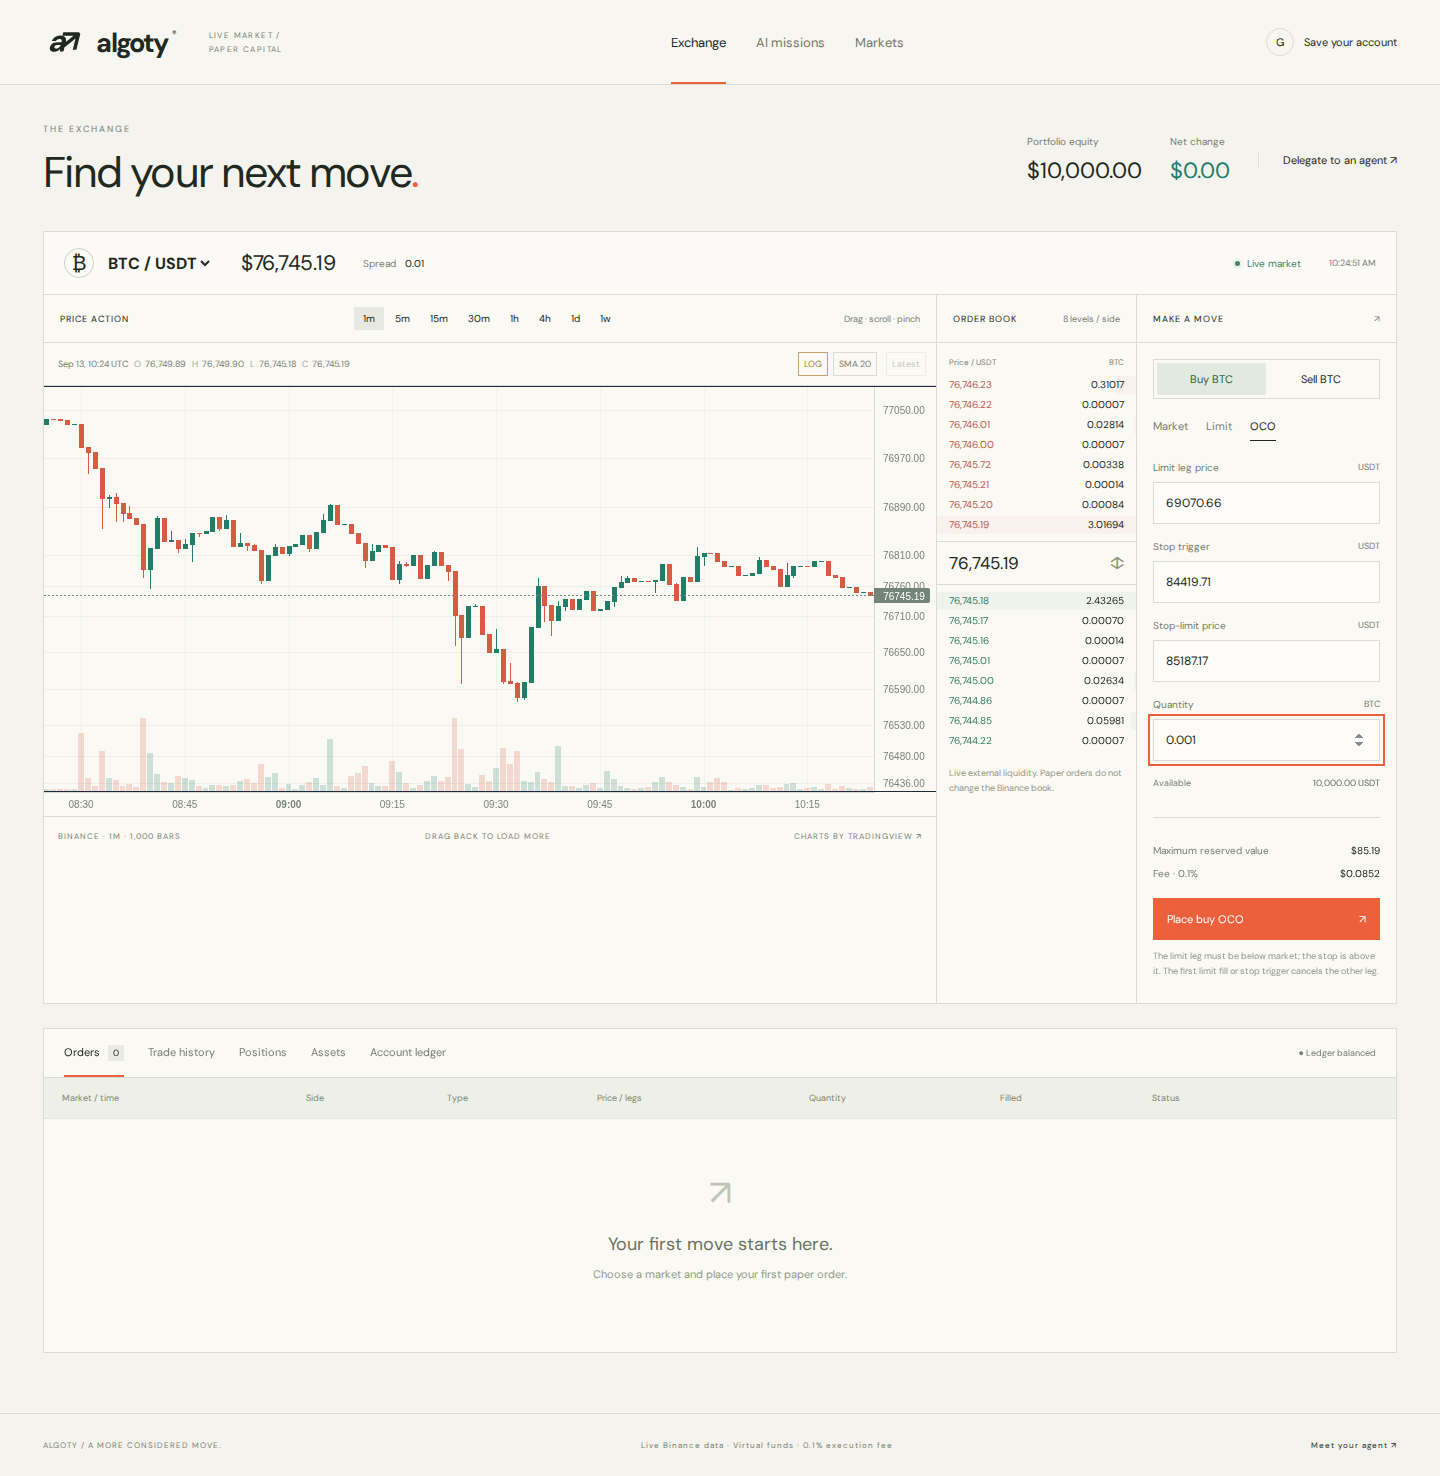
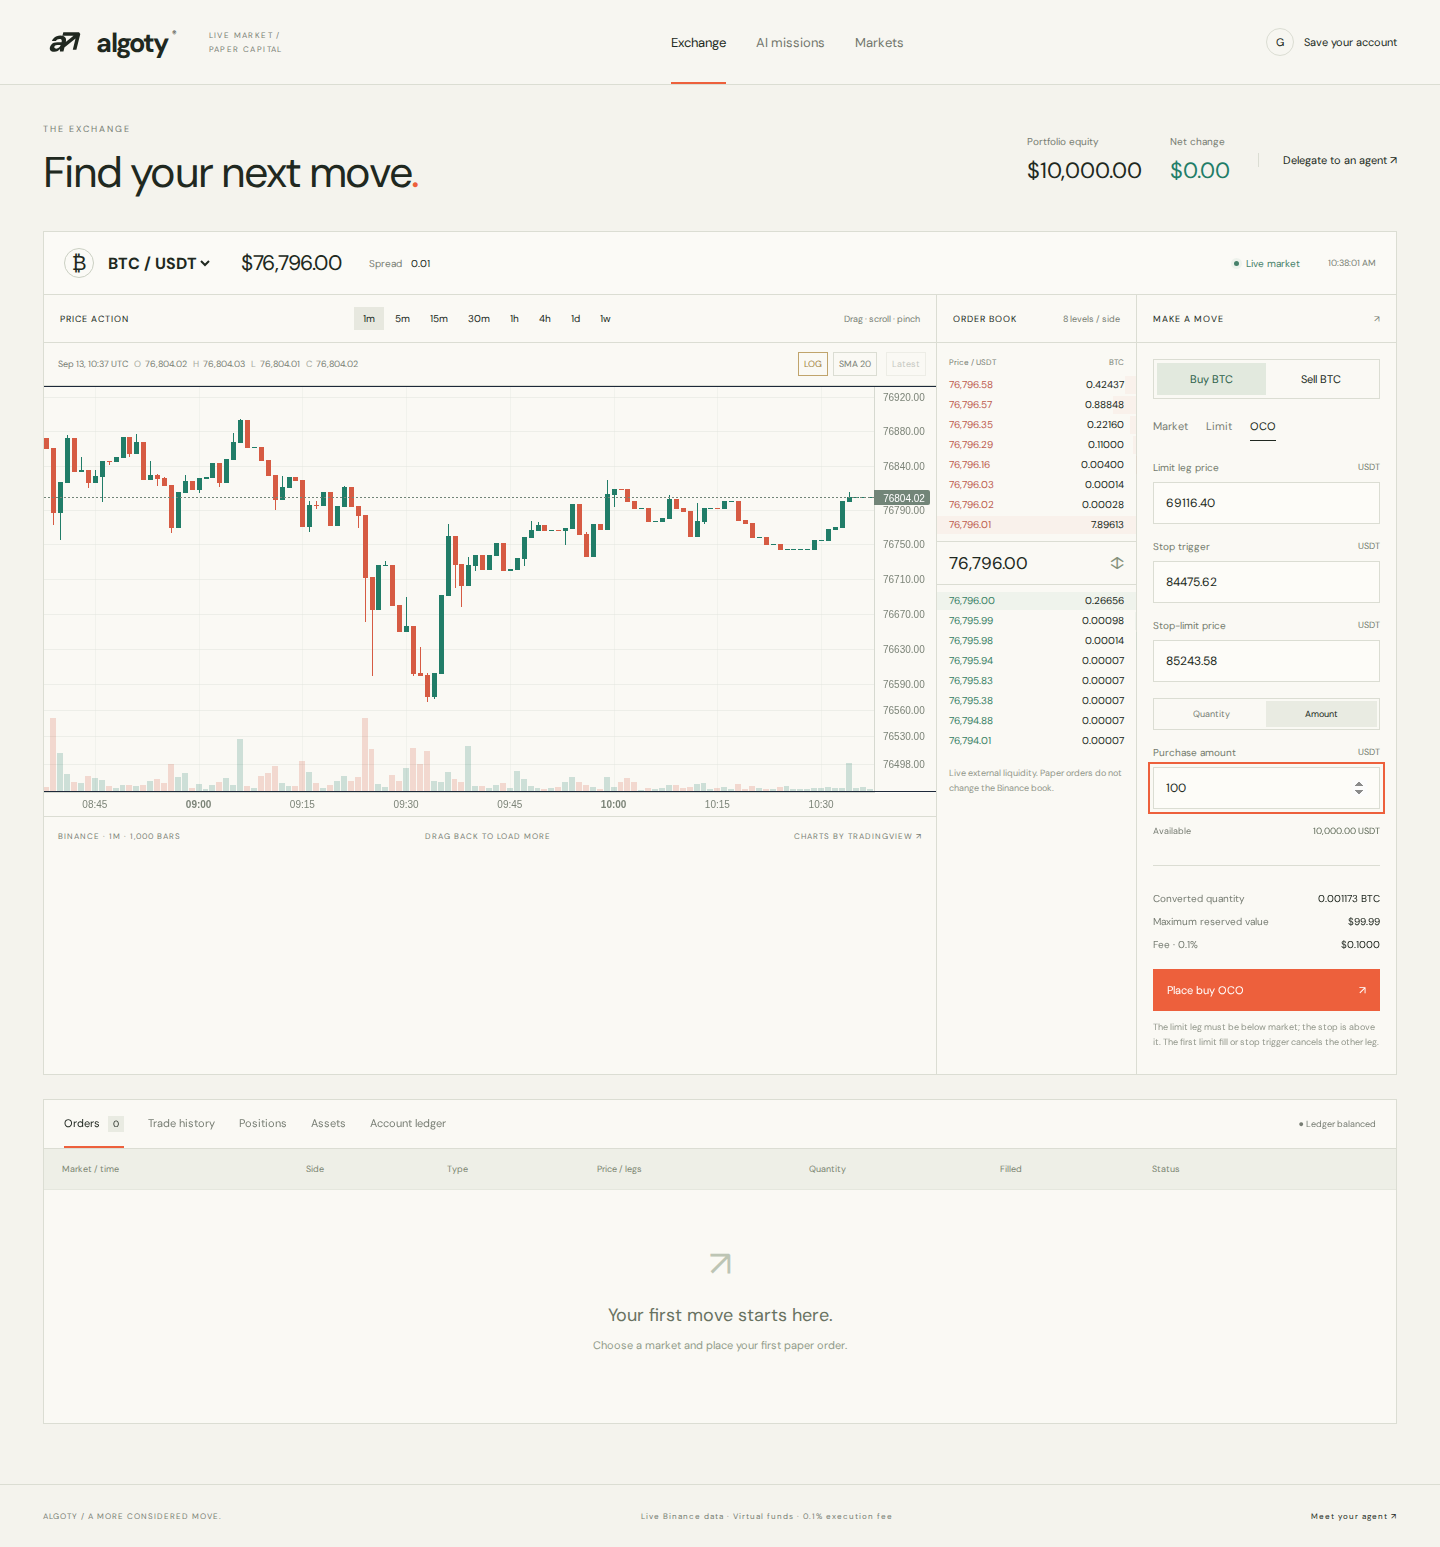
exchange: support USDT amount sizing

diff --git a/apps/web/app/(product)/trade/page.js b/apps/web/app/(product)/trade/page.js
@@ -40,6 +40,8 @@ export default function Trade() {
       "",
     ),
     [quantity, setQuantity] = useViewState("trade.quantity", "0.001"),
+    [savedSizeMode, setSizeMode] = useViewState("trade.size-mode", "QUANTITY"),
+    [amount, setAmount] = useViewState("trade.amount", "100"),
     [savedTab, setTab] = useViewState("trade.portfolio-tab", "orders"),
     [notice, setNotice] = useState(""),
     [busy, setBusy] = useState(false),
@@ -50,6 +52,9 @@ export default function Trade() {
   const kind = ["MARKET", "LIMIT", "OCO"].includes(savedKind)
     ? savedKind
     : "MARKET";
+  const sizeMode = ["QUANTITY", "AMOUNT"].includes(savedSizeMode)
+    ? savedSizeMode
+    : "QUANTITY";
   const logarithmicScale = savedChartScale !== "linear";
   const tab = portfolioTabs.includes(savedTab) ? savedTab : "orders";
   const queryClient = useQueryClient();
@@ -77,7 +82,17 @@ export default function Trade() {
   }
   useEffect(() => {
     key.current = null;
-  }, [symbol, side, kind, price, stopPrice, stopLimitPrice, quantity]);
+  }, [
+    symbol,
+    side,
+    kind,
+    price,
+    stopPrice,
+    stopLimitPrice,
+    quantity,
+    amount,
+    sizeMode,
+  ]);
   const asset = symbol.replace("USDT", ""),
     best =
       (side === "BUY" ? market?.asks?.[0]?.price : market?.bids?.[0]?.price) ||
@@ -89,7 +104,14 @@ export default function Trade() {
       : kind === "OCO" && side === "BUY"
         ? Math.max(Number(price || 0), Number(stopLimitPrice || 0))
         : Number(price || 0);
-  const estimate = Number(quantity || 0) * estimatePrice;
+  const quantityUnits =
+    sizeMode === "AMOUNT"
+      ? estimatePrice > 0
+        ? Math.floor((Number(amount || 0) / estimatePrice) * 1e6)
+        : 0
+      : Math.round(Number(quantity || 0) * 1e6);
+  const orderQuantity = quantityUnits / 1e6;
+  const estimate = orderQuantity * estimatePrice;
   const available = portfolio?.balances?.find(
     (b) => b.asset === (side === "BUY" ? "USDT" : asset),
   );
@@ -102,7 +124,7 @@ export default function Trade() {
         symbol,
         side,
         kind,
-        quantity: Math.round(Number(quantity) * 1e6),
+        quantity: quantityUnits,
         price: Math.round(Number(price || 0) * 100),
         ...(kind === "OCO"
           ? {
@@ -378,19 +400,60 @@ export default function Trade() {
                 </label>
               </>
             )}
-            <label>
-              Quantity <span>{asset}</span>
-              <input
-                aria-label="Order quantity"
-                type="number"
-                min="0.000001"
-                step="0.000001"
-                max="1000"
-                value={quantity}
-                onChange={(e) => setQuantity(e.target.value)}
-                required
-              />
-            </label>
+            <div className="size-entry">
+              <div
+                className="size-mode"
+                role="group"
+                aria-label="Order size input"
+              >
+                <button
+                  type="button"
+                  className={sizeMode === "QUANTITY" ? "active" : ""}
+                  aria-pressed={sizeMode === "QUANTITY"}
+                  onClick={() => setSizeMode("QUANTITY")}
+                >
+                  Quantity
+                </button>
+                <button
+                  type="button"
+                  className={sizeMode === "AMOUNT" ? "active" : ""}
+                  aria-pressed={sizeMode === "AMOUNT"}
+                  onClick={() => setSizeMode("AMOUNT")}
+                >
+                  Amount
+                </button>
+              </div>
+              {sizeMode === "QUANTITY" ? (
+                <label>
+                  Order quantity <span>{asset}</span>
+                  <input
+                    aria-label="Order quantity"
+                    type="number"
+                    min="0.000001"
+                    step="0.000001"
+                    max="1000"
+                    value={quantity}
+                    onChange={(e) => setQuantity(e.target.value)}
+                    required
+                  />
+                </label>
+              ) : (
+                <label>
+                  {side === "BUY" ? "Purchase amount" : "Order value"}{" "}
+                  <span>USDT</span>
+                  <input
+                    aria-label="Order amount"
+                    type="number"
+                    min="0.01"
+                    step="0.01"
+                    max="10000000"
+                    value={amount}
+                    onChange={(e) => setAmount(e.target.value)}
+                    required
+                  />
+                </label>
+              )}
+            </div>
             <div className="available">
               Available{" "}
               <b>
@@ -405,6 +468,14 @@ export default function Trade() {
               </b>
             </div>
             <div className="ticket-estimate">
+              {sizeMode === "AMOUNT" && (
+                <span>
+                  Converted quantity
+                  <b>
+                    {fmt(orderQuantity, 6)} {asset}
+                  </b>
+                </span>
+              )}
               <span>
                 {kind === "OCO" && side === "BUY"
                   ? "Maximum reserved value"
@@ -417,7 +488,9 @@ export default function Trade() {
             </div>
             <button
               className={"primary place " + (side === "SELL" ? "sell" : "")}
-              disabled={busy || !user || !market || market.stale}
+              disabled={
+                busy || !user || !market || market.stale || quantityUnits < 1
+              }
             >
               {busy
                 ? "Placing…"

diff --git a/apps/web/app/product.css b/apps/web/app/product.css
@@ -489,6 +489,25 @@
   color: var(--ink);
   border-color: var(--ink);
 }
+.size-mode {
+  display: flex;
+  border: 1px solid var(--line);
+  padding: 2px;
+  margin-bottom: 12px;
+}
+.size-mode button {
+  flex: 1;
+  padding: 7px 4px;
+  color: var(--muted);
+  font-size: 9px;
+}
+.size-mode button.active {
+  color: var(--ink);
+  background: #e9ebe2;
+}
+.size-entry > label {
+  margin-bottom: 16px;
+}
 .product form label,
 .plan-fields label {
   display: block;

diff --git a/docs/v2/RUNBOOK.md b/docs/v2/RUNBOOK.md
@@ -86,4 +86,4 @@ Art direction: warm ivory, charcoal, restrained orange and muted market colors. 
 
 Routes: `/`, `/markets`, `/trade`, `/agents`, `/account`, `/shared/:token`. The four private product routes share one persistent route-group layout and TanStack Query client. User data is keyed by user id, retained in memory for background refreshes and explicitly invalidated after mutations; changing accounts drops the previous user's queries. Live SSE snapshots use the same cache while streams remain live. Market/timeframe/tab/draft choices use the route-group view store and browser-session storage. None of these responses are written to the service-worker cache.
 
-The exchange has zoomable candles, switchable logarithmic/linear price scales, optional SMA, depth-price selection, execution detail, positions, assets and ledger. The selected price scale persists with the other browser-session chart controls. Mobile layouts preserve the order ticket and book. Missions have editable plans, an evidence journal, natural-language control previews and read-only comparison publishing.
+The exchange has zoomable candles, switchable logarithmic/linear price scales, optional SMA, depth-price selection, execution detail, positions, assets and ledger. The order ticket accepts either base-asset quantity or a USDT amount; amount mode converts at the market price, limit price, or worst-case BUY OCO reservation price and shows the resulting quantity before submission. The selected price scale and sizing mode persist with the other browser-session controls. Mobile layouts preserve the order ticket and book. Missions have editable plans, an evidence journal, natural-language control previews and read-only comparison publishing.

diff --git a/README.md b/README.md
@@ -11,6 +11,7 @@ A live-data paper exchange with a Go execution engine, Java financial core and A
 - Streams real Binance spot depth and trades, and opens each chart with up to 1,000 cached Binance candles for 1m, 5m, 15m, 30m, 1h, 4h, 1d and 1w. Dragging into the past loads and merges older pages on demand.
 - Renders interactive volume, crosshair, SMA and switchable logarithmic/linear price scales.
 - Executes market, limit and linked OCO paper orders against observed liquidity, including partial fills, single-reservation OCO legs, fees and cancellation.
+- Accepts order sizing as either base-asset quantity or a directly entered USDT amount.
 - Keeps accounts, positions, realized/unrealized P&L and a balanced double-entry ledger in PostgreSQL.
 - Converts an AI brief into an editable draft. Activation, risk limits and account authorization are enforced outside the model.
 - Evaluates closed candles in the background; records evidence, AI entry reviews and paper fills.
